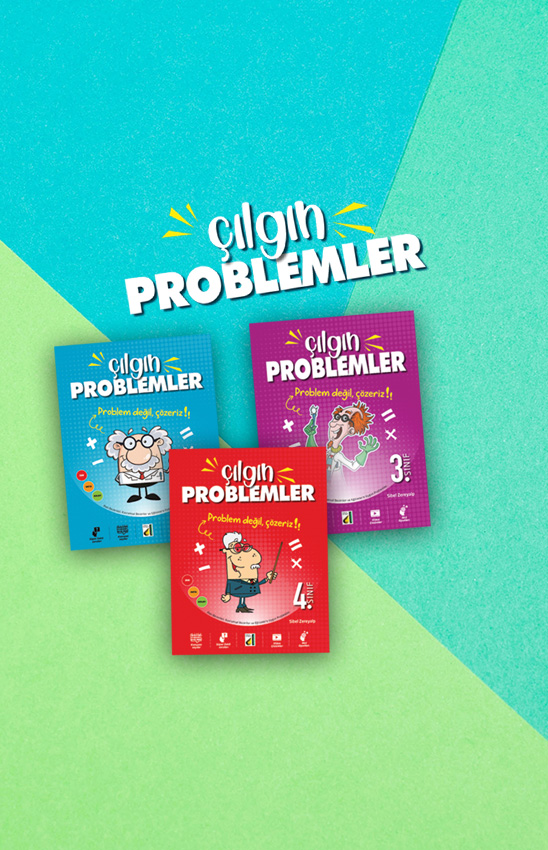
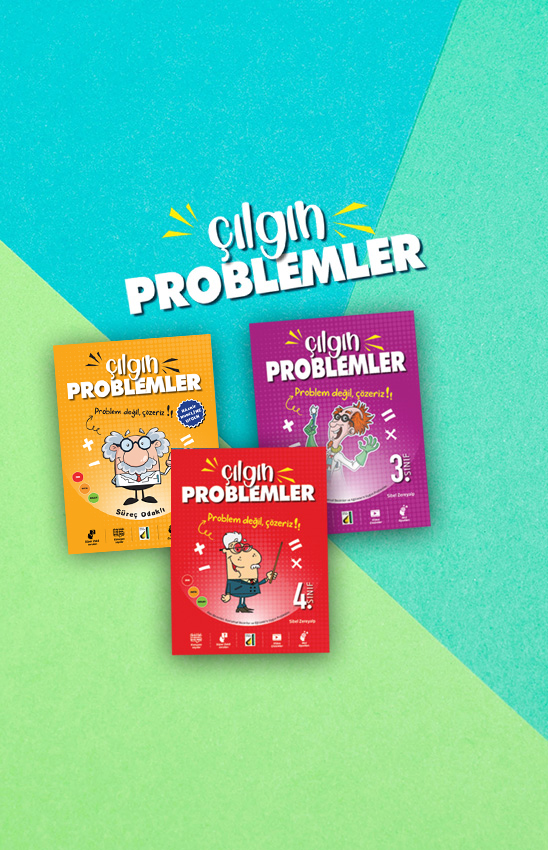
.

Changed region(s): [[0.0931, 0.3671, 0.4033, 0.6729]]

diff --git a/_books/2024-07-20-cilgin-problemler2.md b/_books/2024-07-20-cilgin-problemler2.md
@@ -1,23 +1,23 @@
 ---
 layout: book
-title:  "Akıllı Damla Tüm Dersler | 3.Sınıf"
+title:  "Çılgın Problemler | 2.Sınıf"
 
 
 publisher: damlapublishing
 authors: "Komisyon"
 illustrators: [""]
 translators: #["naci-turan","burak-dogru"]
-image: assets/images/ean/9786254115943.jpg
+image: assets/images/ean/cilgin-problemler2.jpg
 categories: [ "İlkokul" ]
 tags: [ "Okuma yazma, ilkokuma, yeni müfredat"]
 previewpage: false
 featured: false
 
 genre: tumdersler
-type: sinif03 
+type: sinif02 
 
 # Book attributes
-ean: 9786254115943
+ean: cilgin-problemler2
 languages: []
 page: 136
 size: "13,5x21cm"
